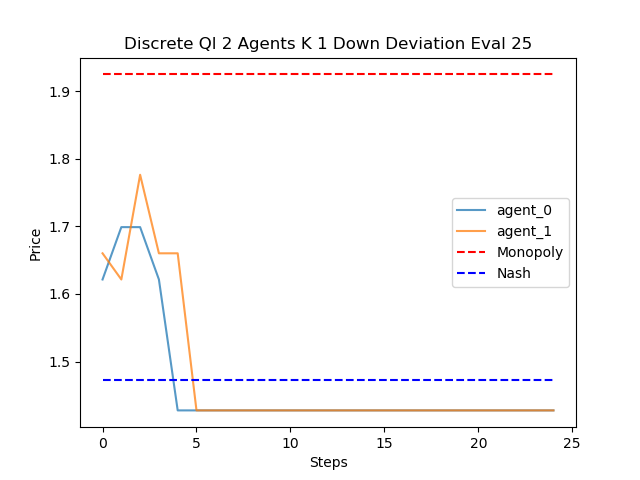
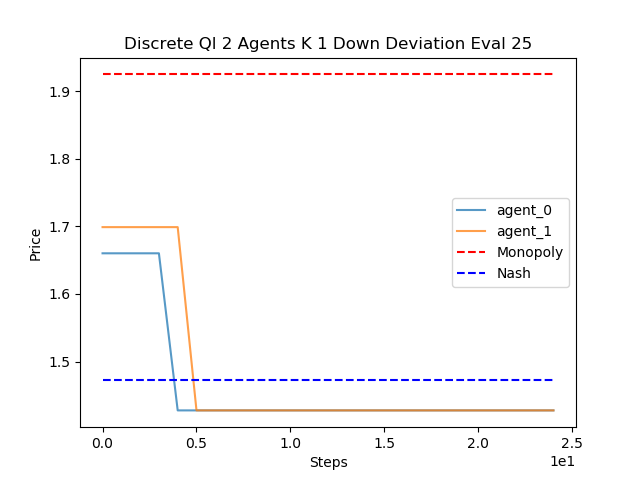
auto

diff --git a/agents/q_learner.py b/agents/q_learner.py
@@ -6,20 +6,18 @@ from gym_bertrandcompetition.envs.bertrand_competition_discrete import BertrandC
 
 class Q_Learner():
 
-    def __init__(self, env, num_agents=2, m=15, alpha=0.05, beta=0.2, delta=0.99, supervisor=False, sessions=1, log_frequency=10000):
+    def __init__(self, env, num_agents=2, m=15, alpha=0.05, beta=0.2, delta=0.99, supervisor=False, proportion_boost=1.0, action_price_space=[], sessions=1, log_frequency=10000):
 
         self.env = env
-        if supervisor:
-            self.num_agents = num_agents + 1
-            self.agents = [ 'agent_' + str(i) for i in range(num_agents)] + ['supervisor']
-        else:
-            self.num_agents = num_agents
-            self.agents = [ 'agent_' + str(i) for i in range(num_agents)]
+        self.num_agents = num_agents
+        self.agents = [ 'agent_' + str(i) for i in range(num_agents)]
         self.m = m
         self.alpha = alpha
         self.beta = beta
         self.delta = delta
         self.supervisor = supervisor
+        self.proportion_boost = proportion_boost
+        self.action_price_space = action_price_space
         self.sessions = sessions
         self.log_frequency = log_frequency
 
@@ -27,6 +25,7 @@ class Q_Learner():
         '''Train to fill q_table'''
 
         self.q_table = [{} for _ in range(self.num_agents)]
+        self.supervisor_q_table = {}
 
         # For plotting metrics
         all_rewards = [ [] for _ in range(self.num_agents) ] # store the penalties per episode
@@ -34,16 +33,19 @@ class Q_Learner():
         for i in range(self.sessions):    
 
             observation = self.env.reset()
-            # if self.supervisor:
-            #     supervisor_observation = observation.pop('supervisor') # Try giving current actions as observation to supervisor!
             observation = str(observation['agent_0']) # Potentially make observation less long
 
             for agent in range(self.num_agents):
                 if observation not in self.q_table[agent]:
-                    if self.agents[agent] == 'supervisor':
-                        self.q_table[agent][observation] = [0] * (self.num_agents - 1)
-                    else:
-                        self.q_table[agent][observation] = [0] * self.m
+                    self.q_table[agent][observation] = [0] * self.m
+
+            supervisor_last_value = 0
+            supervisor_reward = 0
+            supervisor_action = 0
+            actions_dict_str = ''
+
+            if actions_dict_str not in self.supervisor_q_table:
+                self.supervisor_q_table[actions_dict_str] = [0] * self.num_agents
 
             loop_count = 0
             reward_list = []
@@ -63,17 +65,46 @@ class Q_Learner():
 
                 next_observation, reward, done, info = self.env.step(actions_dict)
                 done = done['__all__']
-
                 next_observation = str(next_observation['agent_0'])
 
+                if self.supervisor:
+                    # Supervisor Update
+                    if str(actions_dict) not in self.supervisor_q_table:
+                        self.supervisor_q_table[str(actions_dict)] = [0] * self.num_agents
+
+                    supervisor_Q_max = np.max(self.supervisor_q_table[str(actions_dict)])
+                    self.supervisor_q_table[actions_dict_str][supervisor_action] = ((1 - self.alpha) * supervisor_last_value) + (self.alpha * (supervisor_reward + self.delta * supervisor_Q_max))
+
+                    # Action
+                    actions_dict_str = str(actions_dict)
+
+                    if actions_dict_str not in self.supervisor_q_table:
+                        self.supervisor_q_table[actions_dict_str] = [0] * self.num_agents
+
+                    if random.uniform(0, 1) < epsilon:
+                        supervisor_action = np.random.randint(0, self.num_agents)
+                    else:
+                        supervisor_action = np.argmax(self.supervisor_q_table[actions_dict_str])
+
+                    # Supervisor Step
+                    supervisor_choice = 'agent_' + str(supervisor_action)
+                    for agent in self.agents:
+                        if agent == supervisor_choice:
+                            reward[agent] *= self.proportion_boost
+                        else:
+                            reward[agent] *= (2 - self.proportion_boost)
+
+                    supervisor_reward = -np.prod(self.action_price_space.take(list(actions_dict.values())))
+
+                    supervisor_last_value = self.supervisor_q_table[actions_dict_str][supervisor_action]
+                    
+                # Agent Update
                 last_values = [0] * self.num_agents
                 Q_maxes = [0] * self.num_agents
+
                 for agent in range(self.num_agents):
                     if next_observation not in self.q_table[agent]:
-                        if self.agents[agent] == 'supervisor':
-                            self.q_table[agent][next_observation] = [0] * (self.num_agents - 1)
-                        else:
-                            self.q_table[agent][next_observation] = [0] * self.m
+                        self.q_table[agent][next_observation] = [0] * self.m
 
                     last_values[agent] = self.q_table[agent][observation][actions_dict[self.agents[agent]]]
                     Q_maxes[agent] = np.max(self.q_table[agent][next_observation])

diff --git a/gym_bertrandcompetition/envs/bertrand_competition_discrete.py b/gym_bertrandcompetition/envs/bertrand_competition_discrete.py
@@ -222,10 +222,10 @@ class BertrandCompetitionDiscreteEnv(MultiAgentEnv):
         # print(actions_idx)
 
         # 29
-        temp_actions_idx = [0, 0]
-        temp_actions_idx[np.argmax(actions_idx)] = np.min(actions_idx)
-        temp_actions_idx[1 - np.argmax(actions_idx)] = np.min(actions_idx) // 3
-        actions_idx = np.array(temp_actions_idx)
+        # temp_actions_idx = [0, 0]
+        # temp_actions_idx[np.argmax(actions_idx)] = np.min(actions_idx)
+        # temp_actions_idx[1 - np.argmax(actions_idx)] = np.min(actions_idx) // 3
+        # actions_idx = np.array(temp_actions_idx)
         # print(actions_idx)
 
         # Extra
@@ -375,6 +375,7 @@ class BertrandCompetitionDiscreteEnv(MultiAgentEnv):
         plt.plot(x, np.repeat(self.pN, n), 'b--', label='Nash')
         plt.xlabel('Steps')
         plt.ylabel('Price')
+        plt.ticklabel_format(axis="x", style="sci", scilimits=(0,0))
         plt.title(self.savefile.replace('_', ' ').title())
         plt.legend(loc='upper left')
         plt.savefig('./figures/' + self.savefile + '_' + str(overwrite_id))
@@ -392,6 +393,7 @@ class BertrandCompetitionDiscreteEnv(MultiAgentEnv):
         plt.plot(x, np.repeat(self.pN, last_n), 'b--', label='Nash')
         plt.xlabel('Steps')
         plt.ylabel('Price')
+        plt.ticklabel_format(axis="x", style="sci", scilimits=(0,0))
         plt.title((self.savefile + title_str + ' Eval ' + str(last_n) ).replace('_', ' ').title())
         plt.legend()
         plt.savefig('./figures/' + self.savefile + title_str + '_eval_' + str(last_n) + '_' + str(overwrite_id))

diff --git a/gym_bertrand_test.py b/gym_bertrand_test.py
@@ -58,7 +58,7 @@ from ray.tune.logger import pretty_print
 # CHANGE PARAMETERS FOR TESTING
 
 # Trainer Choice (Options: QL, SARSA, DQN, PPO, A3C, A2C, DDPG)
-trainer_choice = 'DDPG'
+trainer_choice = 'QL'
 second_trainer_choice = '' # leave as empty string ('') for none
 
 # Collusion Mitigation Mechanism
@@ -94,7 +94,7 @@ if second_trainer_choice:
     savefile += '_' + second_trainer_choice
 savefile += '_' + str(num_agents) + '_agents_k_' + str(k)
 if supervisor:
-    savefile += '_supervisor_' + str(supervisor) + '_' + str(proportion_boost)
+    savefile += '_supervisor_' + str(supervisor) + '_' + str(proportion_boost).replace('.', '_')
 
 config = {
     'env_config': {
@@ -363,7 +363,7 @@ else:
         sessions=sessions, 
         convergence=convergence, 
         trainer_choice=trainer_choice, 
-        supervisor=supervisor, 
+        supervisor=False, 
         proportion_boost=proportion_boost, 
         use_pickle=use_pickle, 
         path=path,
@@ -378,7 +378,9 @@ else:
             alpha=alpha, 
             beta=beta, 
             delta=delta, 
-            supervisor=supervisor, 
+            supervisor=supervisor,
+            proportion_boost=proportion_boost,
+            action_price_space=env.action_price_space,
             sessions=sessions, 
             log_frequency=log_frequency
         )

diff --git a/gym_bertrandcompetition/envs/bertrand_competition_continuous.py b/gym_bertrandcompetition/envs/bertrand_competition_continuous.py
@@ -348,6 +348,7 @@ class BertrandCompetitionContinuousEnv(MultiAgentEnv):
         plt.plot(x, np.repeat(self.pN, n), 'b--', label='Nash')
         plt.xlabel('Steps')
         plt.ylabel('Price')
+        plt.ticklabel_format(axis="x", style="sci", scilimits=(0,0))
         plt.title(self.savefile.replace('_', ' ').title())
         plt.legend(loc='upper left')
         plt.savefig('./figures/' + self.savefile + '_' + str(overwrite_id))
@@ -365,6 +366,7 @@ class BertrandCompetitionContinuousEnv(MultiAgentEnv):
         plt.plot(x, np.repeat(self.pN, last_n), 'b--', label='Nash')
         plt.xlabel('Steps')
         plt.ylabel('Price')
+        plt.ticklabel_format(axis="x", style="sci", scilimits=(0,0))
         plt.title((self.savefile + title_str + ' Eval ' + str(last_n)).replace('_', ' ').title())
         plt.legend(loc='upper left')
         plt.savefig('./figures/' + self.savefile + title_str + '_eval_' + str(last_n) + '_' + str(overwrite_id))
